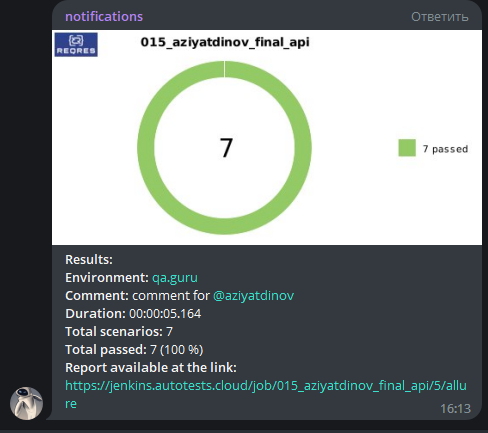
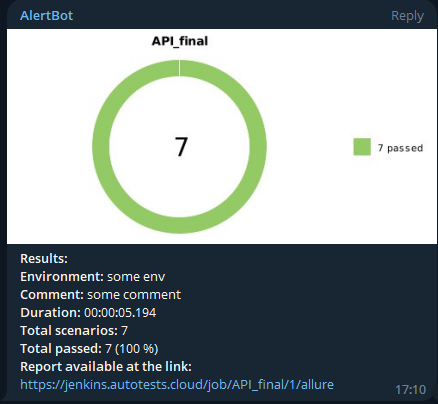
Add Models and Specs

diff --git a/README.md b/README.md
@@ -40,7 +40,7 @@
 gradle clean test
 ```
 
-## <img width="4%" title="Jenkins" src="media/logo/Jenkins.svg"> Запуск тестов из [Jenkins](https://jenkins.autotests.cloud/job/015_aziyatdinov_final_api/)
+## <img width="4%" title="Jenkins" src="media/logo/Jenkins.svg"> Запуск тестов из [Jenkins](https://jenkins.autotests.cloud/job/API_final/)
 Для запуска сборки необходимо перейти в раздел <code><strong>*Собрать с параметрами*</strong></code> и нажать кнопку <code><strong>*Собрать*</strong></code>.
 
 <p align="center">
@@ -50,33 +50,22 @@ gradle clean test
 После выполнения сборки, в блоке <code><strong>*История сборок*</strong></code> напротив номера сборки появится
 значок *Allure Report* кликнув по которому, откроется страница с сформированным html-отчетом и тестовой документацией.
 
-## <img width="4%" title="Allure Report" src="media/logo/Allure_Report.svg"> Отчет о результатах тестирования в [Allure Report](https://jenkins.autotests.cloud/job/015_aziyatdinov_final_api/4/allure/)
+## <img width="4%" title="Allure Report" src="media/logo/Allure_Report.svg"> Отчет о результатах тестирования в [Allure Report](https://jenkins.autotests.cloud/job/API_final/1/allure/#)
 
 <p align="center">
   <img src="media/screen/jenkins_overview.png" alt="allure-report" width="900">
 </p>
 
-<p align="center">
-  <img src="media/screen/jenkins_behaviors.png" alt="allure-report_1" width="900">
-</p>
-
-
-### Основной дашборд
+### Основная страница с графиками
 
 <p align="center">
   <img src="media/screen/dashboards.png" alt="dashboard" width="900">
 </p>
 
-### Список тестов с результатами прогона
+### Тест кейсы в отчете allure
 
 <p align="center">
-  <img src="media/screen/allure-testops-results.png" alt="dashboard" width="900">
-</p>
-
-### Тест-кейсы
-
-<p align="center">
-  <img src="media/screen/allure-testops-testcases.png" alt="testcase" width="900">
+  <img src="media/screen/allure-results.png" alt="dashboard" width="900">
 </p>
 
 ## <img width="4%" title="Telegram" src="media/logo/Telegram.svg"> Уведомления в Telegram
